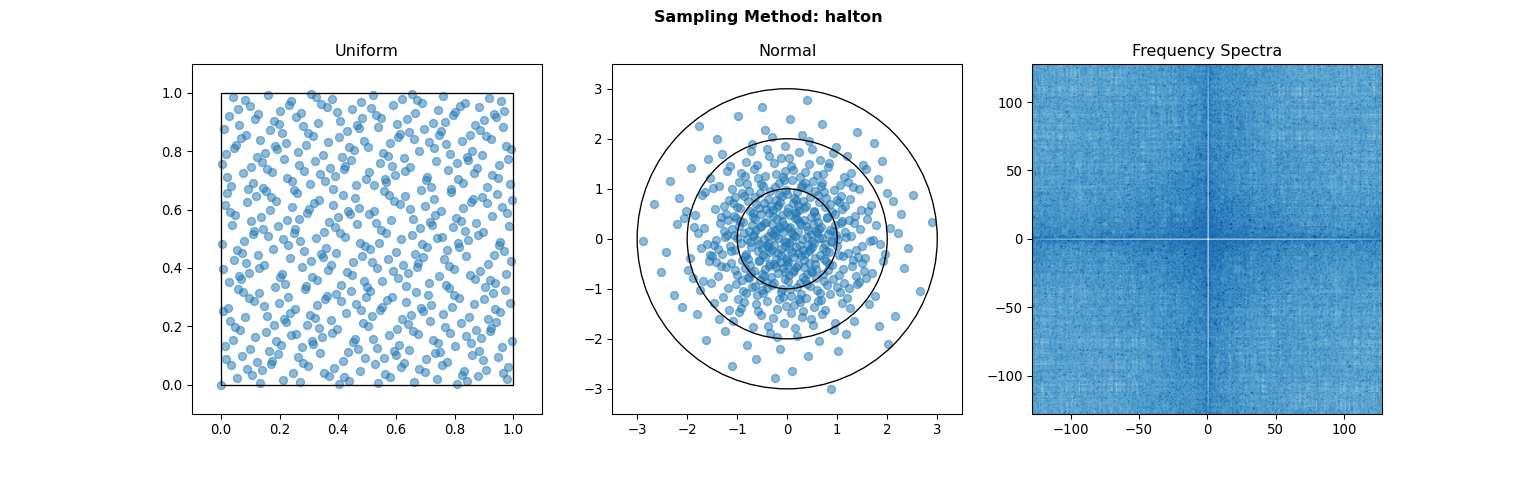
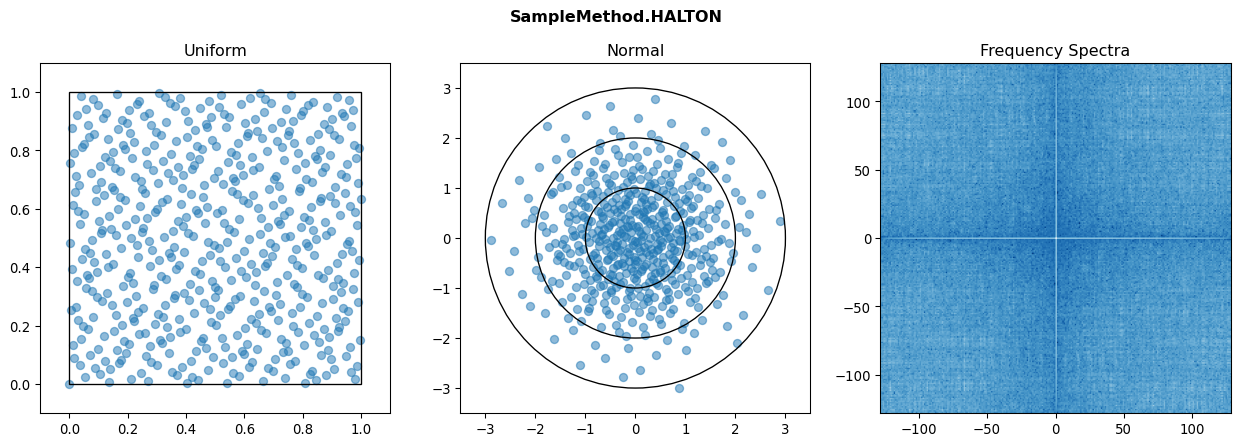
Update sampling plots

diff --git a/test/test_mc_sampling.py b/test/test_mc_sampling.py
@@ -38,7 +38,7 @@ if __name__ == '__main__':
         
         if genplot:
             fig, axs = plt.subplots(1, 3)
-            fig.suptitle(f'Sampling Method: {method}', fontweight='bold')
+            fig.suptitle(f'{method}', fontweight='bold')
             fig.set_dpi(96)
             fig.set_size_inches(16, 5)
     
